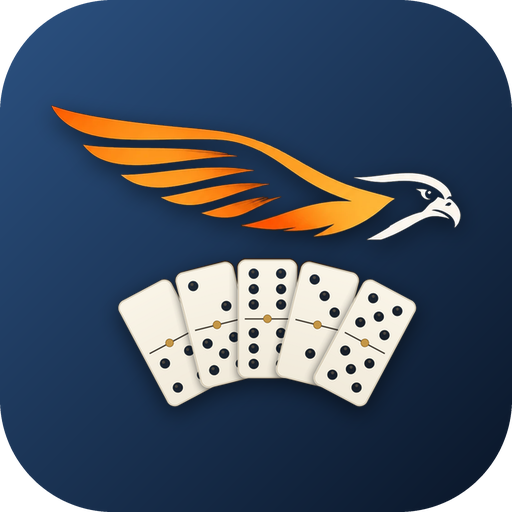
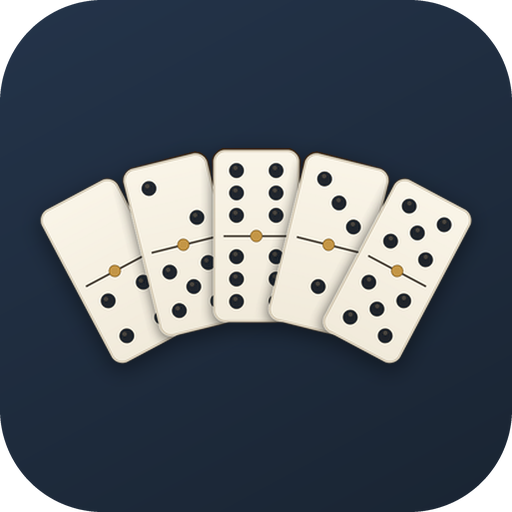
Icones sense falcó i pantalla d'inici d'Android blau pissarra

diff --git a/sw.js b/sw.js
@@ -2,7 +2,7 @@
 // Quan canviïs el joc, empaquetar\publicar.py posa aquí la versió nova.
 // IMPORTANT: totes les apps Xoriguer comparteixen l'origen xorigu3r.github.io.
 // Aquest fitxer NOMÉS toca les memòries cau que comencen per "domino-".
-const VERSION = "domino-v1.5";
+const VERSION = "domino-v1.5-icones";
 const APP = [ "marca/marca.css", "marca/Montserrat-ExtraBold.ttf",
   "./", "index.html", "firebase-config.js", "manifest.webmanifest",
   "img/logo.jpg", "img/icona.png", "img/icona-512.png", "img/apple-touch-icon.png", "img/deco.png", "img/marbre.jpg",
